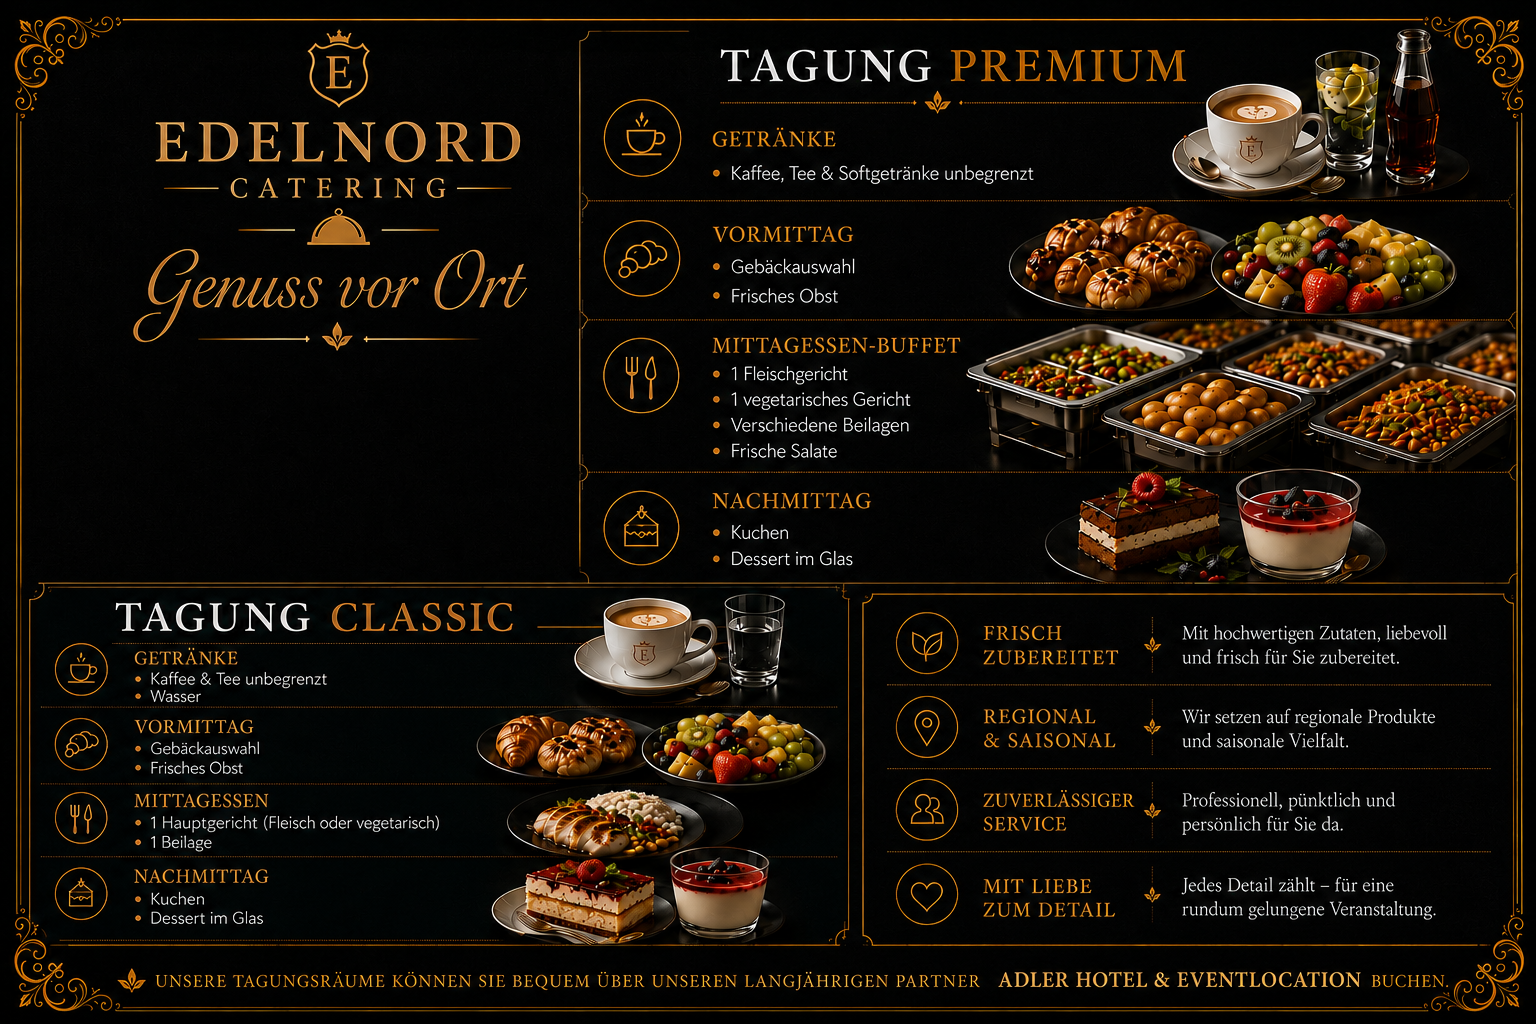
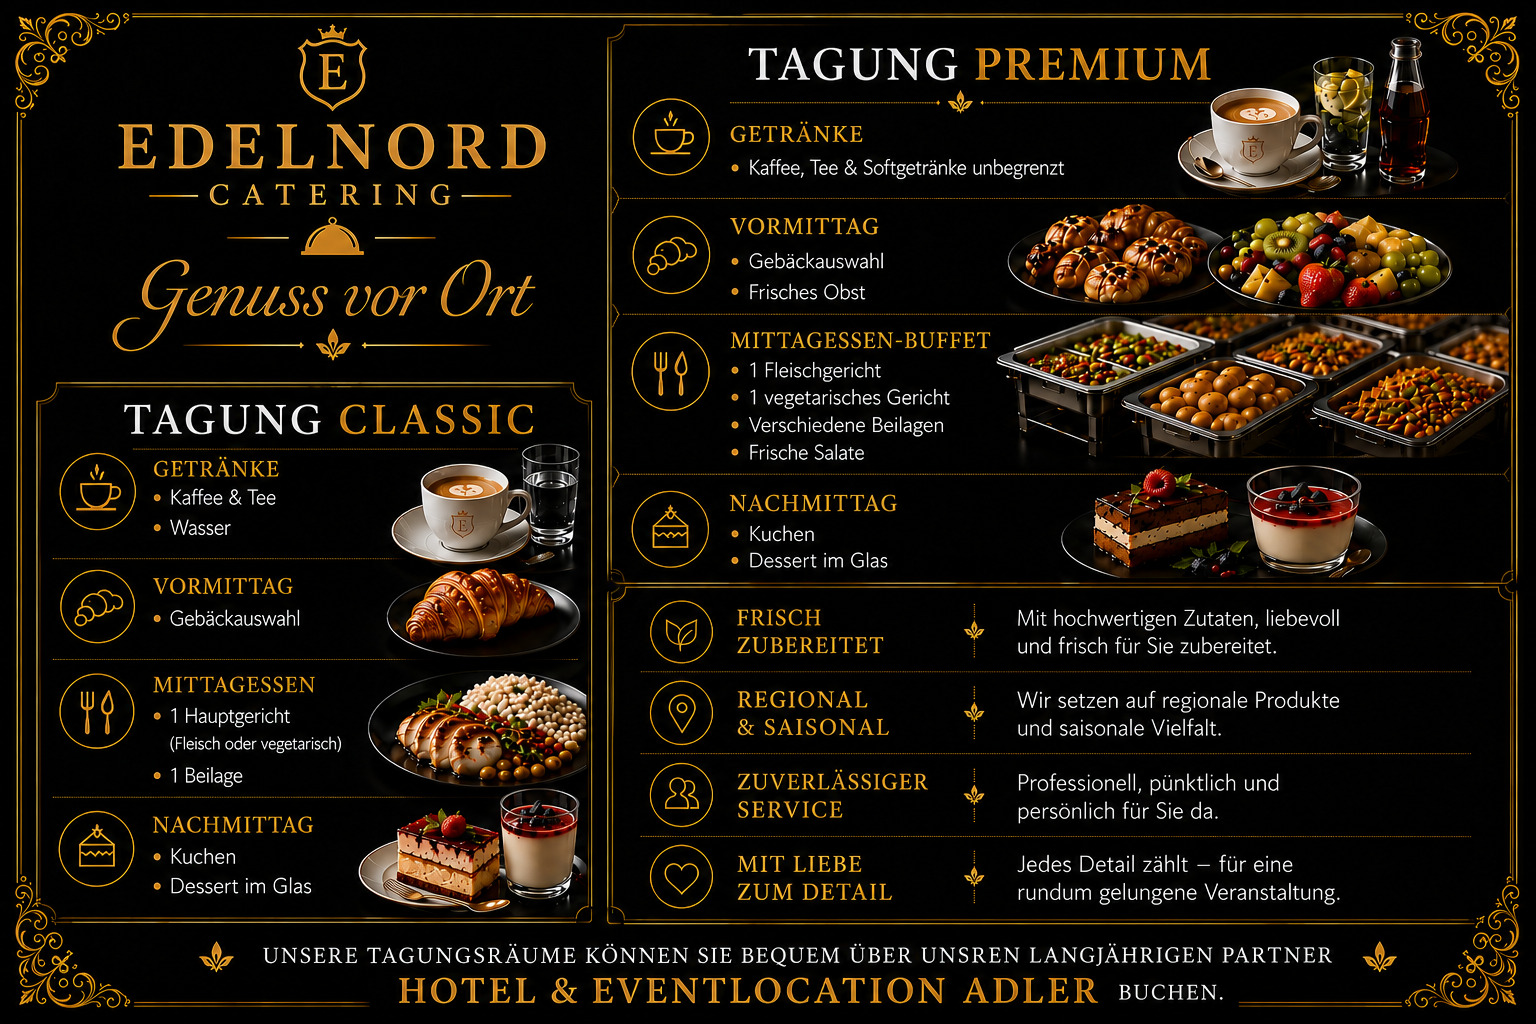
last version für pc

Changed region(s): [[0.0, 0.0, 1.0, 1.0]]

diff --git a/index.html b/index.html
@@ -64,7 +64,7 @@
       </div>
     </div>
     <div class="hero-scroll">
-      <span>Entdecken</span>
+      <span>Entdecke</span>
       <div class="scroll-line"></div>
     </div>
   </section>
@@ -118,7 +118,7 @@
 
   <p class="service-desc">
     Tagungen über unseren Partner
-    <span class="gold-text">Adler Hotel &amp; Eventlocation</span>.
+    <span class="gold-text">Hotel & Eventlocation  &amp; Adler</span>.
   </p>
 
   <span class="service-number">04</span>
@@ -150,11 +150,10 @@
       </div>
     </div>
 
-    <div class="offers-cards">
-      <div class="offer-pill reveal" data-delay="0">
-        <span class="offer-icon">🏫</span>
-        <span class="offer-name">Schulen</span>
-      </div>
+    <a href="fruehstueck.html" class="offer-pill reveal" data-delay="0">
+  <span class="offer-icon">🍳</span>
+  <span class="offer-name">Frühstück</span>
+</a>
 
       <div class="offer-pill reveal" data-delay="0.1">
         <span class="offer-icon">⚕</span>
@@ -163,7 +162,7 @@
 
       <div class="offer-pill reveal" data-delay="0.2">
         <span class="offer-icon">🧒</span>
-        <span class="offer-name">Kindergärten</span>
+        <span class="offer-name">Schulen & Kindergärten</span>
       </div>
 
       <div class="offer-pill reveal" data-delay="0.3">
@@ -378,7 +377,7 @@
           <select id="leistung" name="Leistung">
             <option value="">Bitte wählen…</option>
             <option>Buffet</option>
-            <option>BBQ & Grill</option>
+            <option>Weinachtsbuffets</option>
             <option>Fingerfood</option>
             <option>Tagung</option>
             <option>Mittagstisch</option>
@@ -398,17 +397,17 @@
     <div class="contact-alt reveal" data-delay="0.3">
       <div class="contact-alt-item">
         <span>Telefon</span>
-        <a href="tel:+491715187229">0049 1715187229</a>
+        <a href="tel:+49 171 518 7229 ">+49 171 518 7229 </a>
       </div>
 
       <div class="contact-alt-item">
         <span>E-Mail</span>
-        <a href="mailto:info@edelnord-catering.de">info@edelnordcatering.de</a>
+        <a href="mailto:Info@EdelNordCatering.de">Info@EdelNordCatering.de</a>
       </div>
 
       <div class="contact-alt-item">
         <span>Adresse</span>
-        <span>Linden Straße 72, 25524 Itzehoe</span>
+        <span>Lindenstraße 72, 25524 Itzehoe</span>
       </div>
     </div>
   </div>
@@ -430,9 +429,10 @@
         <h4>Leistungen</h4>
         <ul>
           <li><a href="#leistungen">Buffets</a></li>
-          <li><a href="#leistungen">BBQ & Grill</a></li>
+          <li><a href="#leistungen">Weinachtsbuffets</a></li>
           <li><a href="#leistungen">Fingerfood</a></li>
           <li><a href="#leistungen">Tagung</a></li>
+          <li><a href="#angebote">Mittagstisch</a></li>
         </ul>
       </div>
       <div class="footer-col">
@@ -440,13 +440,12 @@
         <ul>
           <li><a href="#ueber">Über uns</a></li>
       
-          <li><a href="#angebote">Mittagstisch</a></li>
           <li><a href="#kontakt">Kontakt</a></li>
         </ul>
       </div>
     </div>
     <div class="footer-bottom">
-      <p>&copy; 2026 Edelnord Catering · Alle Rechte vorbehalten</p>
+      <p>&copy; 2026 EdelNord Catering GbR · Alle Rechte vorbehalten</p>
       <div style="display:flex; gap:2rem;">
         <a href="impressum.html">Impressum</a>
 <a href="datenschutz.html">Datenschutz</a>

diff --git a/css/fruehstueck.css b/css/fruehstueck.css
@@ -1,0 +1,121 @@
+.fruehstueck-page {
+  width: 100%;
+  height: 100svh;
+  overflow: hidden;
+  position: relative;
+  padding: 1.2rem;
+  background:
+    radial-gradient(circle at 50% 0%, rgba(201,148,58,.13), transparent 35%),
+    linear-gradient(180deg, #080808, #050505);
+  border: 1px solid rgba(201,148,58,.45);
+  display: flex;
+  align-items: center;
+  justify-content: center;
+}
+
+.fruehstueck-home-btn {
+  position: absolute;
+  top: 18px;
+  right: 18px;
+  z-index: 100;
+
+  padding: 8px 18px;
+
+  background: linear-gradient(
+      135deg,
+      var(--gold-deep),
+      var(--gold-bright),
+      var(--gold-deep)
+  );
+
+  color: var(--black);
+  text-decoration: none;
+  text-transform: uppercase;
+  font-size: .55rem;
+  font-weight: 700;
+  letter-spacing: .18em;
+
+  border-radius: 8px;
+  box-shadow: 0 8px 20px rgba(201,148,58,.35);
+  transition: .3s;
+}
+
+.fruehstueck-home-btn:hover {
+  transform: translateY(-2px);
+  box-shadow: 0 12px 28px rgba(201,148,58,.45);
+}
+
+.fruehstueck-center {
+  position: absolute;
+  inset: 0;
+  display: flex;
+  align-items: center;
+  justify-content: center;
+  padding: 0;
+}
+
+.fruehstueck-center img {
+  width: auto;
+  height: 95vh;
+  max-width: 98vw;
+  object-fit: contain;
+}
+
+.fruehstueck-cta {
+  position: absolute;
+  top: 500px;
+  right: 20px;
+
+  padding: 10px 22px;
+
+  background: linear-gradient(
+      135deg,
+      var(--gold-deep),
+      var(--gold-bright),
+      var(--gold-deep)
+  );
+
+  color: var(--black);
+
+  font-size: .55rem;
+  font-weight: 700;
+  letter-spacing: .18em;
+
+  text-decoration: none;
+  text-transform: uppercase;
+
+  border-radius: 10px;
+
+  box-shadow: 0 10px 25px rgba(201,148,58,.35);
+
+  transition: .35s;
+
+  z-index: 50;
+}
+
+.fruehstueck-cta:hover {
+  transform: translateY(-2px);
+  box-shadow: 0 12px 28px rgba(201,148,58,.45);
+}
+
+@media (max-width: 900px) {
+
+  .fruehstueck-center img {
+    height: 92vh;
+    max-width: 98vw;
+  }
+
+  .fruehstueck-home-btn {
+    top: 12px;
+    right: 12px;
+    padding: 7px 14px;
+    font-size: .5rem;
+  }
+
+  .fruehstueck-cta {
+    bottom: 12px;
+    width: auto;
+    padding: 9px 18px;
+    font-size: .55rem;
+  }
+}

diff --git a/impressum.html b/impressum.html
@@ -3,25 +3,55 @@
 <head>
   <meta charset="UTF-8">
   <meta name="viewport" content="width=device-width, initial-scale=1.0">
-  <title>Impressum – Edelnord Catering</title>
+  <title>Impressum – EdelNord Catering GbR</title>
+
   <link rel="stylesheet" href="css/style.css">
 </head>
+
 <body>
 
-<section class="legal-page">
-  <div class="section-inner">
-    <h1 class="section-title">Impressum</h1>
+  <!-- Custom Cursor -->
+  <div class="cursor"></div>
+  <div class="cursor-ring"></div>
 
-    <p>EdelNord Catering</p>
-    <p>Inhaber: Mahmoud El Hosain & Abdulrahman Al Zoubi</p>
-    <p>Adresse: Linden Straße 72, 25524 Itzehoe</p>
-    <p>Telefon: <a href="tel:+491715187229">+49 171 5187229</a></p>
-    <p>E-Mail: <a href="mailto:info@edelnordcatering.de">info@edelnordcatering.de</a></p>
+  <section class="legal-page">
+    <div class="section-inner">
 
-    <br>
-    <a href="index.html" class="btn-primary">Zurück zur Startseite</a>
-  </div>
-</section>
+      <h1 class="section-title">Impressum</h1>
+
+      <p><strong>EdelNord Catering GbR</strong></p>
+
+      <p>
+        Gesellschafter:<br>
+        Mahmoud El Hosain &amp; Abdulrahman Al Zoubi
+      </p>
+
+      <p>
+        Lindenstraße 72<br>
+        25524 Itzehoe
+      </p>
+
+      <p>
+        Telefon:<br>
+        <a href="tel:+491715187229">+49 171 518 7229</a>
+      </p>
+
+      <p>
+        E-Mail:<br>
+        <a href="mailto:info@edelnordcatering.de">info@edelnordcatering.de</a>
+      </p>
+
+      <br>
+
+      <a href="index.html" class="btn-primary">
+        Zurück zur Startseite
+      </a>
+
+    </div>
+  </section>
+
+  <!-- JavaScript -->
+  <script src="js/main.js"></script>
 
 </body>
 </html>

diff --git a/fruehstueck.html b/fruehstueck.html
@@ -1,0 +1,28 @@
+<!DOCTYPE html>
+<html lang="de">
+<head>
+  <meta charset="UTF-8" />
+  <meta name="viewport" content="width=device-width, initial-scale=1.0" />
+  <title>Frühstück – Edelnord Catering</title>
+
+  <link rel="stylesheet" href="css/style.css" />
+  <link rel="stylesheet" href="css/fruehstueck.css" />
+</head>
+
+<body>
+  <div class="cursor"></div>
+  <div class="cursor-ring"></div>
+
+  <section class="fruehstueck-page">
+    <a href="index.html" class="fruehstueck-home-btn">Home</a>
+
+    <main class="fruehstueck-center">
+      <img src="assets/fruehstueck/fruehstueck.PNG" alt="Frühstück Menü">
+    </main>
+
+    <a href="index.html#kontakt" class="fruehstueck-cta">Anfragen</a>
+  </section>
+
+  <script src="js/main.js"></script>
+</body>
+</html>

diff --git a/css/style.css b/css/style.css
@@ -710,6 +710,12 @@ section { position: relative; z-index: 2; }
   transition: var(--transition);
   position: relative;
   overflow: hidden;
+
+   /* Neu */
+  display: block;
+  text-decoration: none;
+  color: inherit;
+  cursor: pointer;
 }
 .offer-pill::before {
   content: '';
